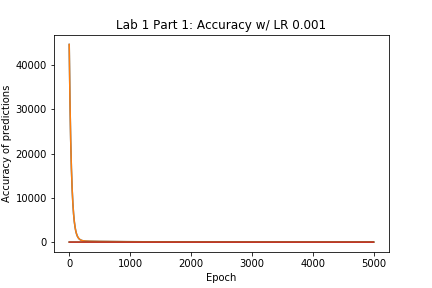
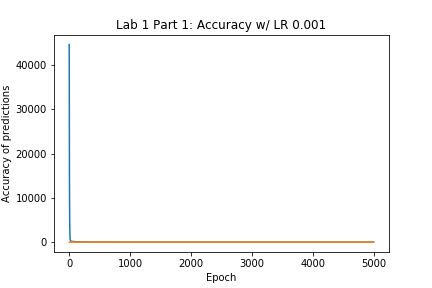
Initial code for branch

Changed region(s): [[0.1505, 0.1562, 0.8727, 0.8438]]

diff --git a/LAB1/a1/starter 2.py b/LAB1/a1/starter 2.py
@@ -1,7 +1,6 @@
 import tensorflow as tf
 import numpy as np
 import matplotlib.pyplot as plt
-from script import calcClosedFormSolution
 
 def loadData():
     with np.load('notMNIST.npz') as data :
@@ -25,6 +24,7 @@ def loadData():
 
 
 def MSE(W, b, x, y, reg):
+    mse = 0
 # =============================================================================
 #   Checking the dimensions of the matrices
 #     print(np.shape(x))
@@ -48,28 +48,15 @@ def gradMSE(W, b, x, y, reg):
     gradB = np.sum(gradB)
     
     return gradW, gradB
-
-def sigmoid(x,W,b):
-    print((1+np.exp(-((W.transpose() @ x.transpose()) + b))))
-    return(1/(1+np.exp(-((W.transpose() @ x.transpose()) + b))))
     
 def crossEntropyLoss(W, b, x, y, reg):
-    
-    x= np.reshape(x,(x.shape[0],-1))
-    W.reshape((-1,1))
-    print(np.shape(x), np.shape(W), np.shape(y))
-    sigmoidRes = sigmoid(x,W,b)
-    print(np.shape(sigmoidRes))
-    print(sigmoidRes)
-    loss = np.sum((1/len(y)) * (-y.transpose() @ np.log(sigmoid(x,W,b)) - (1-y.transpose()) @ np.log(1-sigmoid(x,W,b))))
-    loss+= (reg/2)*np.linalg.norm(W)**2
-    print("Loss is: ",loss)
+    pass
 
 def gradCE(W, b, x, y, reg):
     pass
 
 def calcAcc(W,x,y,b):
-    return np.sum(((((W.transpose() @ x.transpose()) + b).transpose() > 0.5).astype(int) ==y).astype(int)) / x.shape[0]
+    return ((((W.transpose() @ x.transpose()) + b).transpose() > 0.5).astype(int) == y).astype(int).sum() / y.shape[0]
 # While the error is above threshold, keep updating weight matrix
 def grad_descent(W, b, trainingData, trainingLabels, alpha, iterations, reg, EPS):
     print (np.shape(trainingData))
@@ -125,53 +112,27 @@ def buildGraph(beta1=None, beta2=None, epsilon=None, lossType=None, learning_rat
     pass
 
 def plotLab1(errorsList,accuracyList,learningRate):
+    plt.plot(errorsList)
     plt.ylabel("Error/Loss")
     plt.xlabel("Epoch")
     plt.title(f"Lab 1 Part 1: Loss w/ LR {learningRate}")
     plt.savefig(f'lab1part1LOSSplotLR{learningRate}.png')
     
-    plt.plot(accuracyList)
+    plt.plot(errorsList)
     plt.ylabel("Accuracy of predictions")
     plt.xlabel("Epoch")
     plt.title(f"Lab 1 Part 1: Accuracy w/ LR {learningRate}")
     plt.savefig(f'lab1part1ACCURACYplotLR{learningRate}.png')
     
-def plotLab1REG(errorsList,accuracyList,reg):
-    plt.plot(errorsList)
-    plt.ylabel("Error/Loss")
-    plt.xlabel("Epoch")
-    plt.title(f"Lab 1 Part 1: Loss w/ REG {reg}")
-    plt.savefig(f'lab1part1LOSSplotREG{reg}.png')
-    
-    plt.plot(accuracyList)
-    plt.ylabel("Accuracy of predictions")
-    plt.xlabel("Epoch")
-    plt.title(f"Lab 1 Part 1: Accuracy w/ REG {reg}")
-    plt.savefig(f'lab1part1ACCURACYplotREG{reg}.png')
 
-def test_closed_form(X,Y):
-    
-    W_l = calcClosedFormSolution(X, Y)
-    
-    N = X.shape[0]
-    X = np.reshape(X, (N, -1))
-    W_l = np.reshape(W_l, (-1, 1))
-
-    error = MSE(W_l, 0, X, Y, 0)
-    accuracy = calcAcc(W_l,X,Y,0)
-    print("W_l Error: ", error, "| W_l accuracy: ", accuracy)
-    
 def main():
     trainData, validData, testData, trainTarget, validTarget, testTarget = loadData()
     W = np.ones(shape=(784))
-    b = 10
-    crossEntropyLoss(W, b, trainData, trainTarget, 0)
-    
- #This section finds the closed form solution and computes its error & accuracy   
-# =============================================================================
-    test_closed_form(trainData,trainTarget)
-# =============================================================================
-    
+    b = 0
+    LR = [0.0001, 0.001, 0.005]
+    for lr in LR:
+        W,b,errorList,accuracyList = grad_descent(W,b,trainData, trainTarget, lr, 5000, 0, 10**(-7)) #10**(-7)
+        plotLab1(errorList,accuracyList,lr)
     
 if __name__ == "__main__":
     main()

diff --git a/LAB1/a1/script.py b/LAB1/a1/script.py
@@ -1,0 +1,21 @@
+#!/usr/bin/env python3
+# -*- coding: utf-8 -*-
+"""
+Created on Fri Feb  1 15:22:21 2019
+
+@author: marinettechen
+"""
+import numpy as np
+def calcClosedFormSolution(X,y):
+
+    n= X.shape[0]
+    # X = 3500 x 784 and y = 3500x1
+    # (748x3500)x(3500x784) = (784x784)
+    # (784x784)x(784x3500) = (784x3500)
+    # (784x3500)x(3500x1) = (784x1)
+    # Target dimensions should be 784x1
+    X = np.reshape(X,(n,-1))
+    #print(np.shape(X),np.shape(y))
+    w_l = np.linalg.inv((X.transpose() @ X)) @ X.transpose()
+    w_l = w_l @ y
+    return(w_l)
